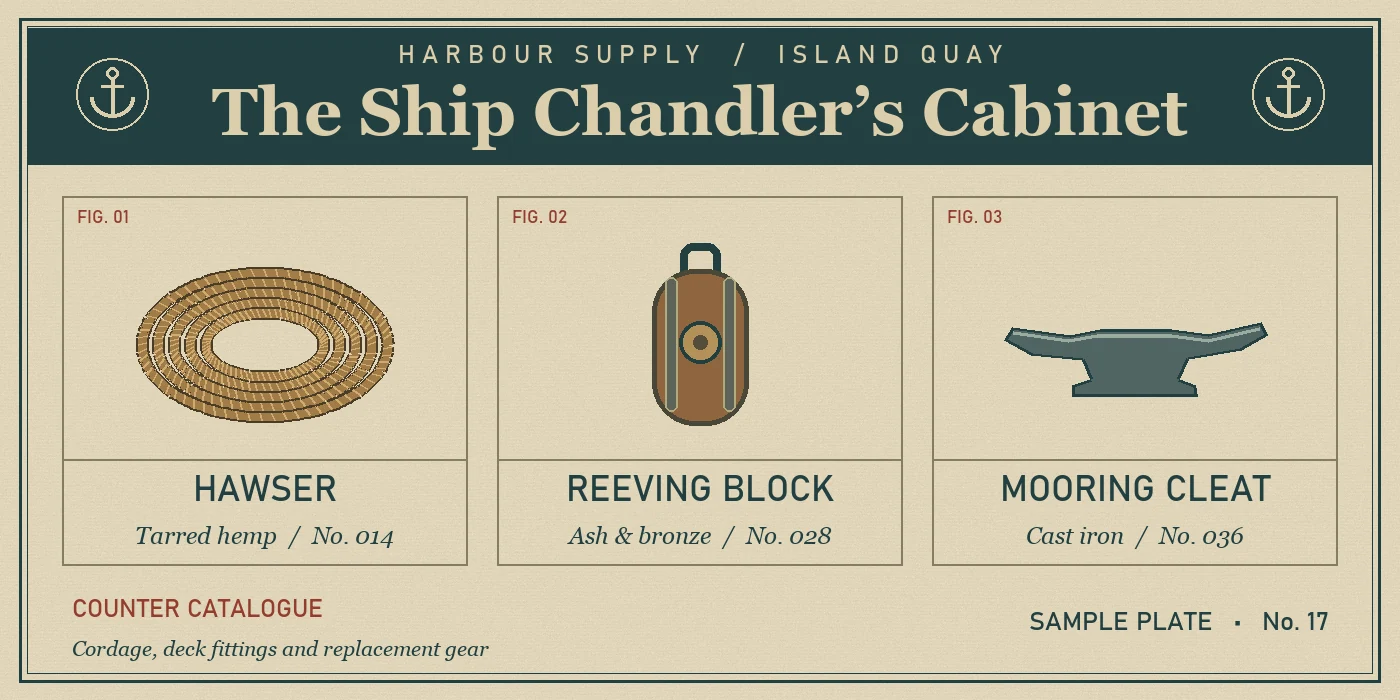
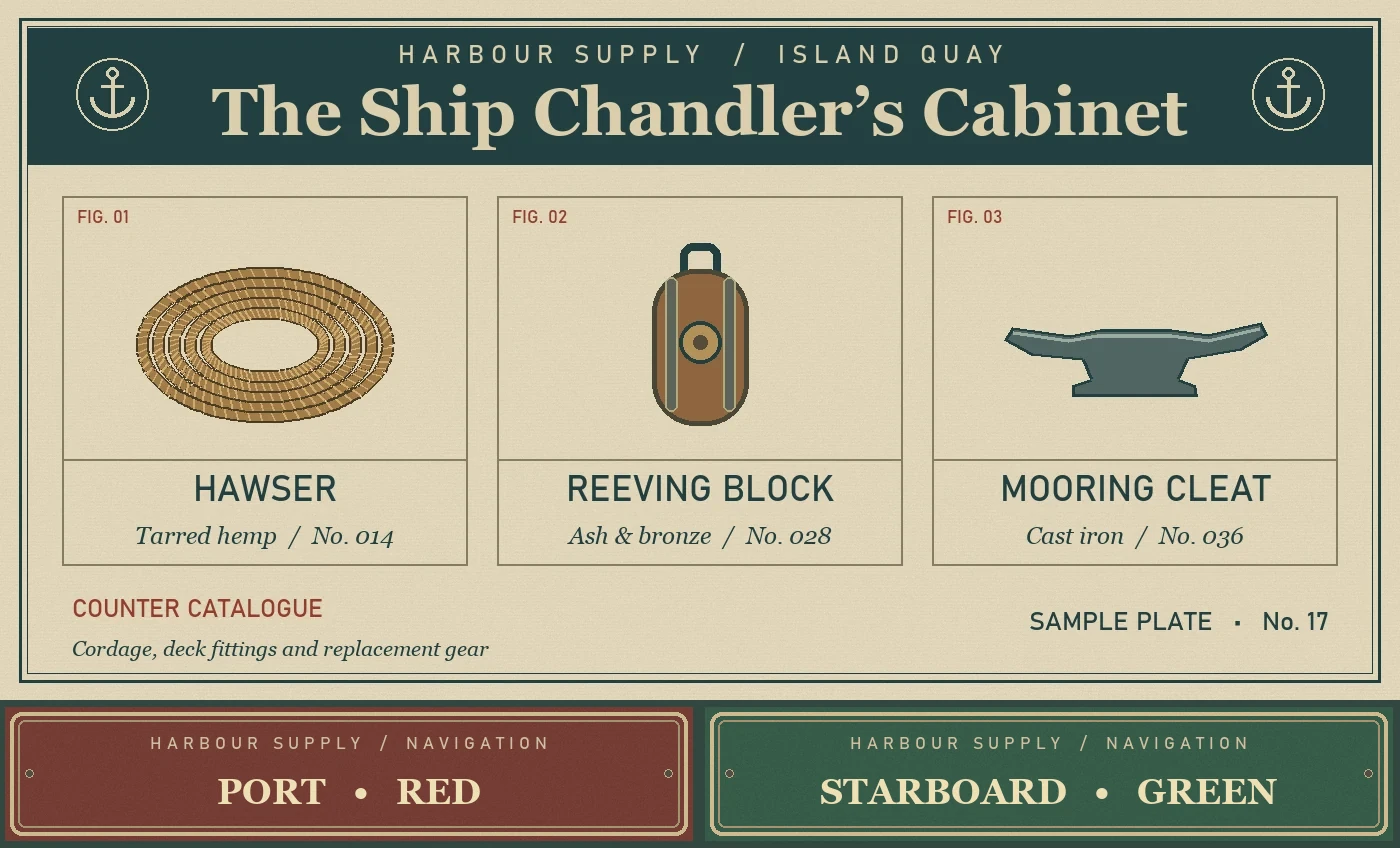
Dress quays and shop windows and improve bot battle coverage

diff --git a/client/ReleaseNotes.tsx b/client/ReleaseNotes.tsx
@@ -6,16 +6,16 @@ const storageKey='eiserne-front-changelog';
 let acknowledgedInSession=false;
 const changes=[
  ['Island und Zeitreise','In der Lobby wählst du die Insel oder eine der drei historischen Karten. Kroenen ist in beiden Welten spielbar. Die übrigen Bonusfiguren und die Sprengrennwagen gehören zur Insel.'],
- ['Begehbare Harbour Road','Östlich der Radarstation liegen Palm Diner, Harbour Supply und Coast Records. Durch die offenen Eingänge gelangst du zu Sitznischen, Warenregalen und Plattenkisten. Die Läden haben eigene Böden, gerahmte Drucke, Verpackungen und Einrichtung. Bei Harbour Supply hängt ein illustrierter Musterkasten für Schiffszubehör samt aufgeschossener Leine. Über den Verkaufsregalen sind sechs Schiffsbeschläge auf beschrifteten Musterbrettern ausgestellt. Der Laden hat eine helle Bretterdecke und einen seegrauen Tresen mit einer Maßskala für Tauwerk. Im Palm Diner stehen Ketchup und Senf auf einem Emailletablett. Meergrüne Wände mit einem cremefarbenen Fliesensockel umgeben den Gastraum. Über dem Tresen hängt die illustrierte Frühstückskarte. Draußen greifen der petrolfarbene Fliesensockel und das neue Fassadenschild die Farben des Innenraums auf. Die Westwand trägt eine gemalte Kaffeereklame. Zur Hafenseite gibt es eine Küchenausgabe mit Emailleablage, belegten Broten und Wärmelampen. Coast Records hat einen Hörplatz mit Holzlautsprechern und dem eigens gestalteten Albumcover „Low Water“. An den Wänden hängen vier weitere illustrierte Cover und die dazugehörigen Schallplatten. Die Decke hat perforierte Akustikkassetten. Plattenkisten und Tresen haben Holzmaserung, Messinggriffe und Karteischilder. Harbour Supply und Coast Records haben eigene Fassadenschilder und beschriftete Schaufenstersockel. Pendelleuchten werfen warme Lichtkegel, und die Schaufenster haben profilierte Rahmen. Die drei Stoffmarkisen haben einen leichten Durchhang, gebogene Säume und sichtbare Halterungen. Am Straßenmast vor dem Palm Diner hängt ein Hafentelefon mit Wählscheibe, Hörer und beidseitigem Emailschild. Am Fußgängerübergang sind die Bordsteine abgesenkt. Auf den abgefahrenen Markierungen scheint stellenweise der Asphalt durch. Vier Straßenlampen haben gebogene Ausleger mit Emaillehauben und Opalglas. Die Freileitungen sitzen auf Porzellanisolatoren.'],
+ ['Begehbare Harbour Road','Östlich der Radarstation liegen Palm Diner, Harbour Supply und Coast Records. Durch die offenen Eingänge gelangst du zu Sitznischen, Warenregalen und Plattenkisten. Die Läden haben eigene Böden, gerahmte Drucke, Verpackungen und Einrichtung. Bei Harbour Supply hängt ein illustrierter Musterkasten für Schiffszubehör samt aufgeschossener Leine. Über den Verkaufsregalen sind sechs Schiffsbeschläge auf beschrifteten Musterbrettern ausgestellt. In den Schaufenstern stehen rote und grüne Positionslaternen aus geripptem Glas und Messing. Der Laden hat eine helle Bretterdecke und einen seegrauen Tresen mit einer Maßskala für Tauwerk. Im Palm Diner stehen Ketchup und Senf auf einem Emailletablett. Meergrüne Wände mit einem cremefarbenen Fliesensockel umgeben den Gastraum. Über dem Tresen hängt die illustrierte Frühstückskarte. Draußen greifen der petrolfarbene Fliesensockel und das neue Fassadenschild die Farben des Innenraums auf. Die Westwand trägt eine gemalte Kaffeereklame. Zur Hafenseite gibt es eine Küchenausgabe mit Emailleablage, belegten Broten und Wärmelampen. Coast Records hat einen Hörplatz mit Holzlautsprechern und dem eigens gestalteten Albumcover „Low Water“. An den Wänden hängen vier weitere illustrierte Cover und die dazugehörigen Schallplatten. Die Decke hat perforierte Akustikkassetten. Plattenkisten und Tresen haben Holzmaserung, Messinggriffe und Karteischilder. Harbour Supply und Coast Records haben eigene Fassadenschilder und beschriftete Schaufenstersockel. Pendelleuchten werfen warme Lichtkegel, und die Schaufenster haben profilierte Rahmen. Die drei Stoffmarkisen haben einen leichten Durchhang, gebogene Säume und sichtbare Halterungen. Am Straßenmast vor dem Palm Diner hängt ein Hafentelefon mit Wählscheibe, Hörer und beidseitigem Emailschild. Am Fußgängerübergang sind die Bordsteine abgesenkt. Auf den abgefahrenen Markierungen scheint stellenweise der Asphalt durch. Vier Straßenlampen haben gebogene Ausleger mit Emaillehauben und Opalglas. Die Freileitungen sitzen auf Porzellanisolatoren.'],
  ['Post vom Hafenamt','Die Geschäfte auf Island haben neue Aushänge. Außen an der Ostwand des Diners kannst du am Nachlassschalter mit E einen Bescheid ziehen. Auf Island hat die MP 40 einen Katzenaufsatz mit gedämpftem Schuss.'],
  ['Licht, Küste und Inselstraße','Ein fotografierter Himmel bestimmt Tageslicht und Reflexionen. Nebel und Nacht haben eigene Himmelsverläufe. Asphalt und Pflaster dunkeln bei Nebel durch Feuchtigkeit ab. Die Harbour Road führt durch eine ausgeschilderte Hafeneinfahrt zum Anleger und zum Hafenmeisterbüro. Durch die geöffneten Fenster siehst du das Funkpult, den Hafenplan und die Gezeitentafel. Hinter dem Anleger liegen Hafenkräne und der Frachter Tern Sound mit sichtbaren Stahlplattenstößen, Tiefgangsmarken, Ladebaum und Festmacherleinen. Die Hafenkräne haben verglaste Kabinen, Gegengewichte, Wartungsstege und Seilrollen mit Haken. Am Ufer rollen gestaffelte Wellen mit schmalen Schaumkanten über nassen Sand, entlang der Straße wachsen Sträucher. Die Harbour Road hat einen Zebrastreifen, Straßenabläufe und einen gusseisernen Schachtdeckel mit Hafenanker und Schriftprägung. Gefaste Bordsteine, Pflasterrinnen und versetzte Betonplatten geben den Gehwegen ein eigenes Profil. Felsen haben verwitterte Oberflächen mit dunkleren Gezeitenzonen. Auf Hoch und Ultra zeichnen sich Lichtmuster im flachen Wasser ab. Werkstätten und Depots tragen Dachaufbauten, Fallrohre und verwitterte Sprossenfenster. Die oberen Ladebuchten der Küstenwachen haben beschriftete Stahlrolltore mit Führungsschienen. Die Eingangsschilder sind unter den Vordächern wieder lesbar. Die Radarplattform hat jetzt einen Fachwerkmast, Funkkästen und neu markierte Zugänge.'],
- ['Historische Architektur','In Köln und im Güterviertel findest du Bahnhofsuhren, eiserne Vordächer und gemauerte Gesimse. Der Deutzer Bahnhof hat ein neues Vordach, Wandlaternen und eine Abfahrtstafel am Vorplatz. Zur Brücke hin trägt die Brückenwache ein Emailleschild zwischen Wandlaternen und profilierten Steinsimsen. Die Buchhandlung am Domhof hat Rundbogenfenster, Sandsteinrahmen, schmiedeeiserne Balkone und ein Schriftband zur Brücke. Im Erdgeschoss zeigen gerahmte Schaufenster Bücher, Kölner Ansichten und Karten. Nachts leuchten die Laternen, der Fahrplan und einzelne Fenster der umliegenden Häuser. Hinter den Straßen setzen sich die Häuserzeilen bis zum Horizont fort. Höhere Grafikprofile zeigen zusätzliche Gauben und Dachaufbauten. Die Kölner Eisenbahnbrücke hat ausgearbeitete Stahlbögen, Querverbände und genietete Anschlussbleche. Ihre beiden Gleise haben profilierte Schienen, blanke Laufflächen und gemaserte Schwellen. Auf der Brücke und im Güterviertel stehen hölzerne Güterwagen mit sichtbarem Fahrwerk, Stahlstreben und Puffern. Am Rheinufer stehen Kaimauern mit Hochwassermarken, Auslässen und Landungstreppen. Die Wasseroberfläche zeigt Strömungsrippel. An den Kaimauern zieht die Strömung kleine Schaumstreifen flussabwärts. Natursteinplatten, Rinnen und Fahrspuren verbinden Kino und Güterbahnhof. Beladene Handkarren stehen im Güterhof. Die Gleise haben profilierte Schienen mit blanken Laufflächen, Befestigungen und gemaserten Schwellen. An Gleis 2 erkennst du die Paketannahme der Feldpost an ihrer Backsteinfassade und dem gemalten Schild. Am Ende der Gleise stehen ein Bahnwasserturm und ein Wasserkran. Am Turm sind gemauerte Bögen, vertiefte Fugen und genietete Bleche sichtbar. Über dem Kölner Rheinufer ragen die beiden gotischen Domtürme mit Maßwerk und abgestuften Spitzen auf. In den Alpen liegen gestaffelte Kalkgrate mit Schneefeldern hinter den Kasernen. Unterhalb der Grate stehen Tannen mit unregelmäßigen Zweigen, sichtbaren Stämmen und einzelnen Schneespuren. Auf den Kalkblöcken am Pass liegt Schnee auf den oberen Flächen und in flachen Rinnen. Eine eigene Kalksteintextur zeigt Bruchlinien und Mineraladern an Felsen und Berghängen. Die Felshänge schließen an den Passboden an, und die Tannen stehen auf der Geländeoberfläche. Schneeverwehungen, Radspuren und festgetretene Wege verbinden die Kasernen mit der Passstraße. Auf den Dächern liegt ungleichmäßig verteilter Schnee. Am Poste des Alpes schützt ein schneebedecktes Holzvordach den Eingang. Feine Schneeflocken ziehen mit dem Wind durch das Tal. Gebäude halten die Flocken draußen, durch offene Eingänge und Fenster bleibt der Schnee sichtbar. Roche-la-Croix hat eine befestigte Betonfront und eine stählerne Beobachtungsglocke. Am Eingang zeigen sich Spuren der Holzschalung, Frostschäden und französische Bauwerksmarkierungen. Darüber sitzen Sprossenfenster mit zurückgeklappten Stahlläden unter einem Kalksteingiebel.'],
+ ['Historische Architektur','In Köln und im Güterviertel findest du Bahnhofsuhren, eiserne Vordächer und gemauerte Gesimse. Der Deutzer Bahnhof hat ein neues Vordach, Wandlaternen und eine Abfahrtstafel am Vorplatz. Zur Brücke hin trägt die Brückenwache ein Emailleschild zwischen Wandlaternen und profilierten Steinsimsen. Die Buchhandlung am Domhof hat Rundbogenfenster, Sandsteinrahmen, schmiedeeiserne Balkone und ein Schriftband zur Brücke. Im Erdgeschoss zeigen gerahmte Schaufenster Bücher, Kölner Ansichten und Karten. Nachts leuchten die Laternen, der Fahrplan und einzelne Fenster der umliegenden Häuser. Hinter den Straßen setzen sich die Häuserzeilen bis zum Horizont fort. Höhere Grafikprofile zeigen zusätzliche Gauben und Dachaufbauten. Die Kölner Eisenbahnbrücke hat ausgearbeitete Stahlbögen, Querverbände und genietete Anschlussbleche. Ihre beiden Gleise haben profilierte Schienen, blanke Laufflächen und gemaserte Schwellen. Auf der Brücke und im Güterviertel stehen hölzerne Güterwagen mit sichtbarem Fahrwerk, Stahlstreben und Puffern. Am Rheinufer stehen Kaimauern mit Hochwassermarken, Auslässen und Landungstreppen. Die Quader zeigen eine fotografische Sandsteinstruktur und unterschiedlich verwitterte Abschnitte. Die Wasseroberfläche zeigt Strömungsrippel. An den Kaimauern zieht die Strömung kleine Schaumstreifen flussabwärts. Natursteinplatten, Rinnen und Fahrspuren verbinden Kino und Güterbahnhof. Beladene Handkarren stehen im Güterhof. Die Gleise haben profilierte Schienen mit blanken Laufflächen, Befestigungen und gemaserten Schwellen. An Gleis 2 erkennst du die Paketannahme der Feldpost an ihrer Backsteinfassade und dem gemalten Schild. Am Ende der Gleise stehen ein Bahnwasserturm und ein Wasserkran. Am Turm sind gemauerte Bögen, vertiefte Fugen und genietete Bleche sichtbar. Über dem Kölner Rheinufer ragen die beiden gotischen Domtürme mit Maßwerk und abgestuften Spitzen auf. In den Alpen liegen gestaffelte Kalkgrate mit Schneefeldern hinter den Kasernen. Unterhalb der Grate stehen Tannen mit unregelmäßigen Zweigen, sichtbaren Stämmen und einzelnen Schneespuren. Auf den Kalkblöcken am Pass liegt Schnee auf den oberen Flächen und in flachen Rinnen. Eine eigene Kalksteintextur zeigt Bruchlinien und Mineraladern an Felsen und Berghängen. Die Felshänge schließen an den Passboden an, und die Tannen stehen auf der Geländeoberfläche. Schneeverwehungen, Radspuren und festgetretene Wege verbinden die Kasernen mit der Passstraße. Auf den Dächern liegt ungleichmäßig verteilter Schnee. Am Poste des Alpes schützt ein schneebedecktes Holzvordach den Eingang. Feine Schneeflocken ziehen mit dem Wind durch das Tal. Gebäude halten die Flocken draußen, durch offene Eingänge und Fenster bleibt der Schnee sichtbar. Roche-la-Croix hat eine befestigte Betonfront und eine stählerne Beobachtungsglocke. Am Eingang zeigen sich Spuren der Holzschalung, Frostschäden und französische Bauwerksmarkierungen. Darüber sitzen Sprossenfenster mit zurückgeklappten Stahlläden unter einem Kalksteingiebel.'],
  ['Uniformen und Hände','Jacken und Hosen haben sichtbare Nähte und Falten. Auf Island tragen Figuren Tarnstoff, geformte Schutzwesten und gebogene Schutzgläser. Die beiden Island-Uniformen haben eigene Gesichter mit unterschiedlichem Bartwuchs, geformte Rucksäcke und sichtbare Schultergurte. Helme und Stiefel werfen vollständigere Schatten. Kontaktschatten unter den Stiefeln drehen mit der Figur und folgen geneigtem Gelände. Stiefel rollen beim Gehen und Joggen sichtbarer am Boden ab. Beim Seitwärtslaufen bleibt die Schrittführung stabil. Zeitreise-Uniformen tragen flach anliegendes Gurtzeug und geformte Taschen. In der Egoansicht siehst du Gewebestruktur, Ärmelbündchen und Details an den Händen. Hautfalten, Knöchel und abgenutzte Bündchen reflektieren unterschiedlich. Warme Raumlampen beleuchten auch Hände und Ärmel.'],
  ['Union-Lichtspiele','Im Güterviertel von Operation Abendrot steht am Platz der Alten Mühle das begehbare Kino mit Art-déco-Portal und KINO-Schriftpfeiler. Nachts sind die Schrift und der Eingang beleuchtet. Vor der Tür greift ein bündiges Terrazzo-Medaillon das Fächermotiv des Portals auf. Sechs historische Propagandaplakate hängen in den Schaukästen. Im Saal rahmt ein geraffter Samtvorhang mit Messingsims das Archivfoto von 1935. Vier Sitzreihen haben Polsterrücken, über ihnen gliedern Deckenrippen den Raum.'],
  ['Zielfernrohre und historische Ausrüstung','Das Gewehr 43 mit ZF4 ergänzt den Karabiner 98k mit ZF39. Halte die rechte Maustaste für den vierfachen Zoom. Du kannst beim Zielen mit der linken Maustaste schießen.'],
  ['Zeichen und Auszeichnungen','In Köln und im Güterviertel findest du historische Luftschutzzeichen. Nach historischen Gefechten zeigt die Ergebnisansicht verdiente Auszeichnungen.'],
  ['Lobby und Fahrparcours','Die Spielauswahl nutzt auf großen Bildschirmen mehr Breite. Die Einsatzsteuerung sitzt unten. Im Inseltraining führt der Rennwagenparcours an der Küste durch eine Unterführung.'],
- ['Flüssigeres Umsehen','Beim Blick auf geschlossene Ladenwände begrenzt der Renderer die Sichttiefe auf den Raum und spart verdeckte Teile der Insel aus. In „Hoch“ und „Ultra“ beschränkt das Spiel die Schattenkarte auch auf der Straße auf den Ausschnitt, den die Kamera und die Waffe benötigen. In „Hoch“ und „Ultra“ wird statische Raumausstattung außerhalb des Bilds übersprungen. Für die Umgebungsverschattung werden feste Möbel pro Raum zusammen gezeichnet. Sichtbare Schatten bleiben erhalten. Der Modus „Flüssig“ passt die interne Auflösung an die GPU-Auslastung an. Leuchtspuren werden gemeinsam gezeichnet. Bei Treffereffekten, Rauch und Mündungsblitzen überträgt das Spiel nur sichtbare Partikeldaten. Staub und Metallfunken sehen unterschiedlich aus. Explosionen zeigen einen kurzen Feuerblitz und Staub, der sich ausbreitet. Zerbrechende Scheiben streuen unterschiedlich geformte Splitter, die zusammen gezeichnet werden. Uniformteile werden gemeinsam gezeichnet. Entfernte Standardfiguren nutzen beim normalen Blick ein leichteres Körpermodell. Hoch und Ultra richten den Wechsel nach der tatsächlichen Renderauflösung. Die offene Visierung behält diese Abstufung, das Zielfernrohr zeigt das Vollmodell. Entfernte Deckungskisten bekommen in „Hoch“ einfachere Schatten, auch wenn direkt vor dir eine Kiste steht. Kantenglättung und Farbausgabe teilen sich einen Renderdurchlauf. Glatte Bildflächen bekommen keine falschen Kantenmarkierungen mehr. Die Kantenmaske benötigt bei 1080p rund 4 MiB weniger Grafikspeicher. Das Spiel spart dabei einen HDR-Zwischenpuffer und zwei überflüssige Löschvorgänge in der Kantenglättung. Die Umgebungsverdeckung verwendet kleinere Zwischenpuffer und berechnet die Tiefenproben mit weniger GPU-Aufwand. Der Normalenpass übernimmt die Sichtliste der Spielwelt, damit dafür weniger statische Objekte erneut geprüft werden. Auf „Hoch“ benötigt der Normalenpuffer bei 1080p etwa 2 MiB weniger Grafikspeicher. Innenraumschilder teilen sich pro Karte eine Textur. Die Ausrichtung von Armen und Händen bei Spielfiguren braucht weniger Matrixberechnungen. Beim Werfen und Kriechen werden nur die betroffenen Gelenkketten aktualisiert. Überschriebene Kopf- und Brustbewegungen werden bei Standardfiguren nur einmal berechnet. Der Himmel kann den Farbpuffer direkt füllen. Der Tiefenpuffer liegt im Renderziel der Spielwelt. Punktlichter werden nur innerhalb ihrer Reichweite berechnet. Auf sonnenabgewandten Flächen entfallen unnötige Schattenabfragen. Auf unterstützten Systemen bündelt der Renderer opake Fassaden auf Island in „Hoch“ und „Ultra“. Zierglasscheiben innerhalb massiver Fabrikwände entfallen beim Rendern. Beim Blick auf geschlossene Ladenwände entfällt auch der Himmelsdurchlauf. Die Abschussliste und die persönliche Statusanzeige werden nur bei sichtbaren Änderungen neu aufgebaut. Die Highlight-Aufzeichnung verwendet vorhandene Netzwerk-Spielstände und vermeidet vollständige Kopien. Netzwerk-Updates übernehmen unveränderte Objekte aus dem vorherigen Spielstand. Bei unveränderten Innenräumen bleiben Türen und Kollisionsdaten im Speicher. Gestikulierende Bewohner finden ihre Fingergelenke jetzt ohne erneute Suche im Figurenmodell. Beim Wechsel zwischen Joggen und Sprinten behalten Figuren ihre Schrittphase. Die Offiziersmützen auf den Zeitreise-Karten sitzen tiefer auf der Stirn und haben eine gewölbte Krone. Der Offizier trägt jetzt einen gefalteten Hemdkragen, eine Krawatte und eine blaugraue Jacke. Der Schal des Veteranen ist gewickelt und fällt in einer Stofffalte über die Jacke. Dazu trägt er einen kürzeren graumelierten Bart und eine kleinere Brille, die näher am Gesicht sitzt. Sein Haaransatz nutzt die Kopftextur. Bei der Fußplatzierung auf dem Boden entfällt ein Durchlauf durch das Figurenmodell. Die Fingerposen der Bewohner werden beim Laden vorbereitet. Die Handanimation nutzt die bereits berechneten Positionen des Unterarms und der Fingergelenke. Beim Berechnen des Kamerasichtfelds entfallen doppelte Aktualisierungen am sichtbaren Waffenmodell. Die Munitionsanzeige folgt der Waffe, ohne das Seitenlayout bei jeder Bewegung neu zu berechnen. Die Bewegung prüft Hindernisse nur auf Achsen, auf denen sich die Figur tatsächlich bewegt. Auf Island liest der Renderer die festen Übergänge zwischen Gras, Fahrspur und Sand aus einer vorberechneten Geländemaske. Undurchsichtige Gebäude werden vor dem Boden gezeichnet, damit die GPU verdeckte Bodenfläche überspringt. Gleiche Oberflächen der Island-Dekoration teilen sich Materialdaten auch in getrennten Kartenzellen. Das Spiel erstellt abgelegte Figuren mit weniger Rechenarbeit. Bots können den zuvor versperrten Ausrüstungspunkt auf Island erreichen. HUD und Menüs bleiben scharf.'],
+ ['Flüssigeres Umsehen','Beim Blick auf geschlossene Ladenwände begrenzt der Renderer die Sichttiefe auf den Raum und spart verdeckte Teile der Insel aus. In „Hoch“ und „Ultra“ beschränkt das Spiel die Schattenkarte auch auf der Straße auf den Ausschnitt, den die Kamera und die Waffe benötigen. In „Hoch“ und „Ultra“ wird statische Raumausstattung außerhalb des Bilds übersprungen. Für die Umgebungsverschattung werden feste Möbel pro Raum zusammen gezeichnet. Sichtbare Schatten bleiben erhalten. Der Modus „Flüssig“ passt die interne Auflösung an die GPU-Auslastung an. Leuchtspuren werden gemeinsam gezeichnet. Bei Treffereffekten, Rauch und Mündungsblitzen überträgt das Spiel nur sichtbare Partikeldaten. Staub und Metallfunken sehen unterschiedlich aus. Explosionen zeigen einen kurzen Feuerblitz und Staub, der sich ausbreitet. Zerbrechende Scheiben streuen unterschiedlich geformte Splitter, die zusammen gezeichnet werden. Uniformteile werden gemeinsam gezeichnet. Entfernte Standardfiguren nutzen beim normalen Blick ein leichteres Körpermodell. Hoch und Ultra richten den Wechsel nach der tatsächlichen Renderauflösung. Die offene Visierung behält diese Abstufung, das Zielfernrohr zeigt das Vollmodell. Entfernte Deckungskisten bekommen in „Hoch“ einfachere Schatten, auch wenn direkt vor dir eine Kiste steht. Kantenglättung und Farbausgabe teilen sich einen Renderdurchlauf. Glatte Bildflächen bekommen keine falschen Kantenmarkierungen mehr. Die Kantenmaske benötigt bei 1080p rund 4 MiB weniger Grafikspeicher. Das Spiel spart dabei einen HDR-Zwischenpuffer und zwei überflüssige Löschvorgänge in der Kantenglättung. Die Umgebungsverdeckung verwendet kleinere Zwischenpuffer und berechnet die Tiefenproben mit weniger GPU-Aufwand. Der Normalenpass übernimmt die Sichtliste der Spielwelt, damit dafür weniger statische Objekte erneut geprüft werden. Auf „Hoch“ benötigt der Normalenpuffer bei 1080p etwa 2 MiB weniger Grafikspeicher. Innenraumschilder teilen sich pro Karte eine Textur. Die Ausrichtung von Armen und Händen bei Spielfiguren braucht weniger Matrixberechnungen. Beim Werfen und Kriechen werden nur die betroffenen Gelenkketten aktualisiert. Bewaffnete Figuren verwenden dieselbe vorberechnete Transformation für beide Schultern. Überschriebene Kopf- und Brustbewegungen werden bei Standardfiguren nur einmal berechnet. Der Himmel kann den Farbpuffer direkt füllen. Der Tiefenpuffer liegt im Renderziel der Spielwelt. Punktlichter werden nur innerhalb ihrer Reichweite berechnet. Auf sonnenabgewandten Flächen entfallen unnötige Schattenabfragen. Auf unterstützten Systemen bündelt der Renderer opake Fassaden auf Island in „Hoch“ und „Ultra“. Zierglasscheiben innerhalb massiver Fabrikwände entfallen beim Rendern. Beim Blick auf geschlossene Ladenwände entfällt auch der Himmelsdurchlauf. Die Abschussliste und die persönliche Statusanzeige werden nur bei sichtbaren Änderungen neu aufgebaut. Die Highlight-Aufzeichnung verwendet vorhandene Netzwerk-Spielstände und vermeidet vollständige Kopien. Netzwerk-Updates übernehmen unveränderte Objekte aus dem vorherigen Spielstand. Bei unveränderten Innenräumen bleiben Türen und Kollisionsdaten im Speicher. Gestikulierende Bewohner finden ihre Fingergelenke jetzt ohne erneute Suche im Figurenmodell. Beim Wechsel zwischen Joggen und Sprinten behalten Figuren ihre Schrittphase. Die Offiziersmützen auf den Zeitreise-Karten sitzen tiefer auf der Stirn und haben eine gewölbte Krone. Der Offizier trägt jetzt einen gefalteten Hemdkragen, eine Krawatte und eine blaugraue Jacke. Der Schal des Veteranen ist gewickelt und fällt in einer Stofffalte über die Jacke. Dazu trägt er einen kürzeren graumelierten Bart und eine kleinere Brille, die näher am Gesicht sitzt. Sein Haaransatz nutzt die Kopftextur. Bei der Fußplatzierung auf dem Boden entfällt ein Durchlauf durch das Figurenmodell. Die Fingerposen der Bewohner werden beim Laden vorbereitet. Die Handanimation nutzt die bereits berechneten Positionen des Unterarms und der Fingergelenke. Beim Berechnen des Kamerasichtfelds entfallen doppelte Aktualisierungen am sichtbaren Waffenmodell. Die Munitionsanzeige folgt der Waffe, ohne das Seitenlayout bei jeder Bewegung neu zu berechnen. Die Bewegung prüft Hindernisse nur auf Achsen, auf denen sich die Figur tatsächlich bewegt. Auf Island liest der Renderer die festen Übergänge zwischen Gras, Fahrspur und Sand aus einer vorberechneten Geländemaske. Undurchsichtige Gebäude werden vor dem Boden gezeichnet, damit die GPU verdeckte Bodenfläche überspringt. Gleiche Oberflächen der Island-Dekoration teilen sich Materialdaten auch in getrennten Kartenzellen. Das Spiel erstellt abgelegte Figuren mit weniger Rechenarbeit. Bots können den zuvor versperrten Ausrüstungspunkt auf Island erreichen. HUD und Menüs bleiben scharf.'],
 ] as const;
 
 export function ReleaseNotes(){

diff --git a/client/actorEquipment.ts b/client/actorEquipment.ts
@@ -53,6 +53,7 @@ export function createActorEquipment(root:T.Group,chains:Partial<Record<'armL'|'
  root.userData.armChains=chains;
  root.updateWorldMatrix(true,true);
  const arms=Object.fromEntries(Object.entries(chains).filter(([,chain])=>!!chain).map(([key,chain])=>{const upper=root.worldToLocal(chain!.upper.getWorldPosition(new T.Vector3())),lower=root.worldToLocal(chain!.lower.getWorldPosition(new T.Vector3())),hand=root.worldToLocal(chain!.hand.getWorldPosition(new T.Vector3()));return [key,{...chain,rest:[chain!.upper.quaternion.clone(),chain!.lower.quaternion.clone(),chain!.hand.quaternion.clone()],reach:(upper.distanceTo(lower)+lower.distanceTo(hand))*.985,shoulder:upper}];})) as Partial<Record<'armL'|'armR',SavedArm>>;
+ const equippedArms=Object.values(arms),worldToActor=new T.Matrix4();
  const fingers:T.Object3D[]=[],bonusFingers:{bone:T.Object3D;rest:T.Quaternion;angle:number}[]=[];root.traverse(o=>{if(/^finger\d-\d\.[LR]$/.test(o.name))fingers.push(o);const finger=o.name.match(/^UN_([LR])_F_(Index|Mid|Ring|Pinkie|Thumb)_([123])$/);if(finger)bonusFingers.push({bone:o,rest:o.quaternion.clone(),angle:(finger[1]==='L'?-1:1)*(finger[2]==='Thumb'?.4:finger[2]==='Index'&&finger[3]==='1'?.25:finger[3]==='1'?.65:finger[3]==='2'?1.1:.7)});});
  const gripFingers=fingers.map(bone=>{
   const digit=Number(bone.name[6]),joint=Number(bone.name[8]);
@@ -134,7 +135,11 @@ export function createActorEquipment(root:T.Group,chains:Partial<Record<'armL'|'
   mount.position.set(hasLost(p,'armR')?-.14:.14,crawl?1.48:p.crouching?.88:p.sprinting?1.03:1.19,(crawl?.06:-.26)+recoil*.035);mount.position.y-=Math.sin(transition*Math.PI)*.12;
   mount.rotation.set((crawl?Math.PI/2:0)+p.pitch-(p.sprinting?.28:0)-(reloading?.25:0)-recoil*.055,0,reloading?.18:0);
   // updateMatrix is explicit: the IK targets must match this frame's weapon pose.
-  for(const arm of Object.values(arms))if(arm)root.worldToLocal(arm.upper.getWorldPosition(arm.shoulder));
+  if(equippedArms.length){
+   root.updateWorldMatrix(true,false);
+   worldToActor.copy(root.matrixWorld).invert();
+   for(const arm of equippedArms)arm.upper.getWorldPosition(arm.shoulder).applyMatrix4(worldToActor);
+  }
   mount.updateMatrix();
   const missingRight=hasLost(p,'armR'),supportZ=weapons[p.weapon].kind==='pistol'?-.025:-.22;
   for(let iteration=0;iteration<4;iteration++){

diff --git a/client/islandStreet.ts b/client/islandStreet.ts
@@ -392,6 +392,38 @@ export function addIslandStreet(scene:T.Group){
     texture.colorSpace=T.SRGBColorSpace;
     const board=new T.Mesh(new T.PlaneGeometry(3.35,1.68),new T.MeshBasicMaterial({map:texture}));
     board.rotation.y=s.front===1?0:Math.PI;board.position.set(s.x,2.29,s.z-s.front*(s.d/2-.255));street.add(board);
+    if(s.id==='harbour-supply'){
+      const boardUV=board.geometry.getAttribute('uv');
+      for(let i=0;i<boardUV.count;i++)boardUV.setY(i,1-(1-boardUV.getY(i))*700/848);
+      // Paired navigation lights are shop stock on the existing display sills.
+      // Concentric prisms, a chimney and guard rods give the lenses a true silhouette.
+      const brass=paint('#a98a58'),bronze=paint('#696346'),rackZ=edge+.105;
+      for(const [number,side] of [1,-1].entries()){
+        const x=s.x+side*4.42,glass=paint(number?'#408b72':'#b9503e');
+        cuboid(x,1.032,rackZ,.91,.144,.40,wood);
+        cuboid(x,1.111,rackZ,.95,.044,.43,brass);
+        cylinder(x,1.18,rackZ,.187,.212,.10,bronze);
+        cylinder(x,1.243,rackZ,.21,.198,.057,brass);
+        const profile=[new T.Vector2(.154,0)];
+        for(let ring=0;ring<5;ring++){
+          const y=ring*.060;
+          profile.push(new T.Vector2(.168,y+.006),new T.Vector2(.187,y+.024),new T.Vector2(.157,y+.056));
+        }
+        solid(new T.LatheGeometry(profile,12),x,1.272,rackZ,glass);
+        cylinder(x,1.60,rackZ,.145,.216,.072,brass);
+        cylinder(x,1.672,rackZ,.102,.13,.09,bronze);
+        cylinder(x,1.733,rackZ,.065,.15,.047,brass);
+        for(let guard=0;guard<4;guard++){
+          const a=(guard+.5)*Math.PI/2;
+          cuboid(x+.182*Math.cos(a),1.433,rackZ+.182*Math.sin(a),.021,.33,.021,brass);
+        }
+        const bail=solid(new T.TorusGeometry(.102,.012,4,14,Math.PI),x,1.735,rackZ,bronze);
+        bail.rotation.y=side*.33;
+        const tag=new T.PlaneGeometry(.83,.151),uv=tag.getAttribute('uv');
+        for(let i=0;i<uv.count;i++)uv.setXY(i,(6+number*700+686*uv.getX(i))/1400,(8+132*uv.getY(i))/848);
+        const sign=new T.Mesh(tag,board.material);sign.position.set(x,1.031,rackZ-.204);sign.rotation.y=Math.PI;street.add(sign);
+      }
+    }
     if(s.id==='coast-records'){
       const boardUV=board.geometry.getAttribute('uv');
       for(let i=0;i<boardUV.count;i++)boardUV.setY(i,1/3+boardUV.getY(i)*2/3);

diff --git a/client/rhineQuays.ts b/client/rhineQuays.ts
@@ -25,9 +25,13 @@ export function addRhineQuays(face:Face){
     // Stagger joints between low and high courses instead of stretching a district tile over each wall.
     for(let row=0;row<3;row++){
       const bottom=[-4.58,-3.18,-1.49][row],high=[-3.18,-1.49,-.11][row];
-      for(let start=-126-row%2*2.8;start<126;start+=5.6){
-        const z0=Math.max(-126,start),z1=Math.min(126,start+5.6);
-        if(z1-z0>.03)front(.036,z0,z1,bottom,high,14,[.44,.77,.96][row]);
+      let start=-126-(row%2)*1.75;
+      for(let section=0;start<126;section++){
+        const length=3.55+.52*Math.sin(section*1.91+row*.83+side*.7);
+        const z0=Math.max(-126,start),z1=Math.min(126,start+length);
+        const shade=[.46,.76,.94][row]+.038*Math.sin(section*1.57+row*2.14);
+        if(z1-z0>.03)front(.036,z0,z1,bottom,high,14,shade);
+        start+=length;
       }
     }
     for(let z=-126;z<126;z+=2.4){

diff --git a/tests/harbour-road-battle.py b/tests/harbour-road-battle.py
@@ -465,7 +465,10 @@ with sync_playwright() as pw:
                 best=start+1
                 for end in range(len(path)-1,start+1,-1):
                     xb,zb=path[end]
-                    stride=math.ceil(2*math.hypot(xb-xa,zb-za))
+                    length=math.hypot(xb-xa,zb-za)
+                    if length>24:
+                        continue
+                    stride=math.ceil(2*length)
                     limit=max(map(danger,path[start:end+1]))+.25
                     segment=((round(xa+(xb-xa)*i/stride),round(za+(zb-za)*i/stride))
                              for i in range(1,stride+1))
@@ -475,18 +478,33 @@ with sync_playwright() as pw:
                 route.append(path[best])
                 start=best
             return route
-        for attempt in range(4):
+        attempts=6 if difficulty=='normal' else 4
+        for attempt in range(attempts):
             try:
                 life=page.evaluate('harbourQA.player.life')
-                route=find_route()
-                print('Street approach',route,flush=True)
-                for i,(x,z) in enumerate(route):
-                    walk(page,x,z,life=life,settle_ms=220 if i==len(route)-1 else 70)
-                return
+                for _ in range(16):
+                    route=find_route()
+                    if not route:
+                        walk(page,*goal,life=life)
+                        return
+                    position=tuple(page.evaluate('[harbourQA.player.x,harbourQA.player.z]'))
+                    covered=0
+                    print('Street approach',route,flush=True)
+                    for x,z in route:
+                        covered+=math.dist(position,(x,z))
+                        position=(x,z)
+                        arrived=position==goal
+                        walk(page,x,z,life=life,settle_ms=220 if arrived else 70)
+                        if arrived:
+                            return
+                        # Bot positions have changed by the time we cross this section.
+                        if covered>=20:
+                            break
+                raise AssertionError(('Street approach did not reach goal',goal,position))
             except (AssertionError,PlaywrightTimeout) as event:
                 if on_failure:
                     on_failure('street approach',attempt+1,event)
-                if not isinstance(event,TurnLifeInterrupted) or attempt==3:
+                if not isinstance(event,TurnLifeInterrupted) or attempt==attempts-1:
                     raise
                 if event.position:
                     # On retry, prefer a detour past the last exposed stretch.
